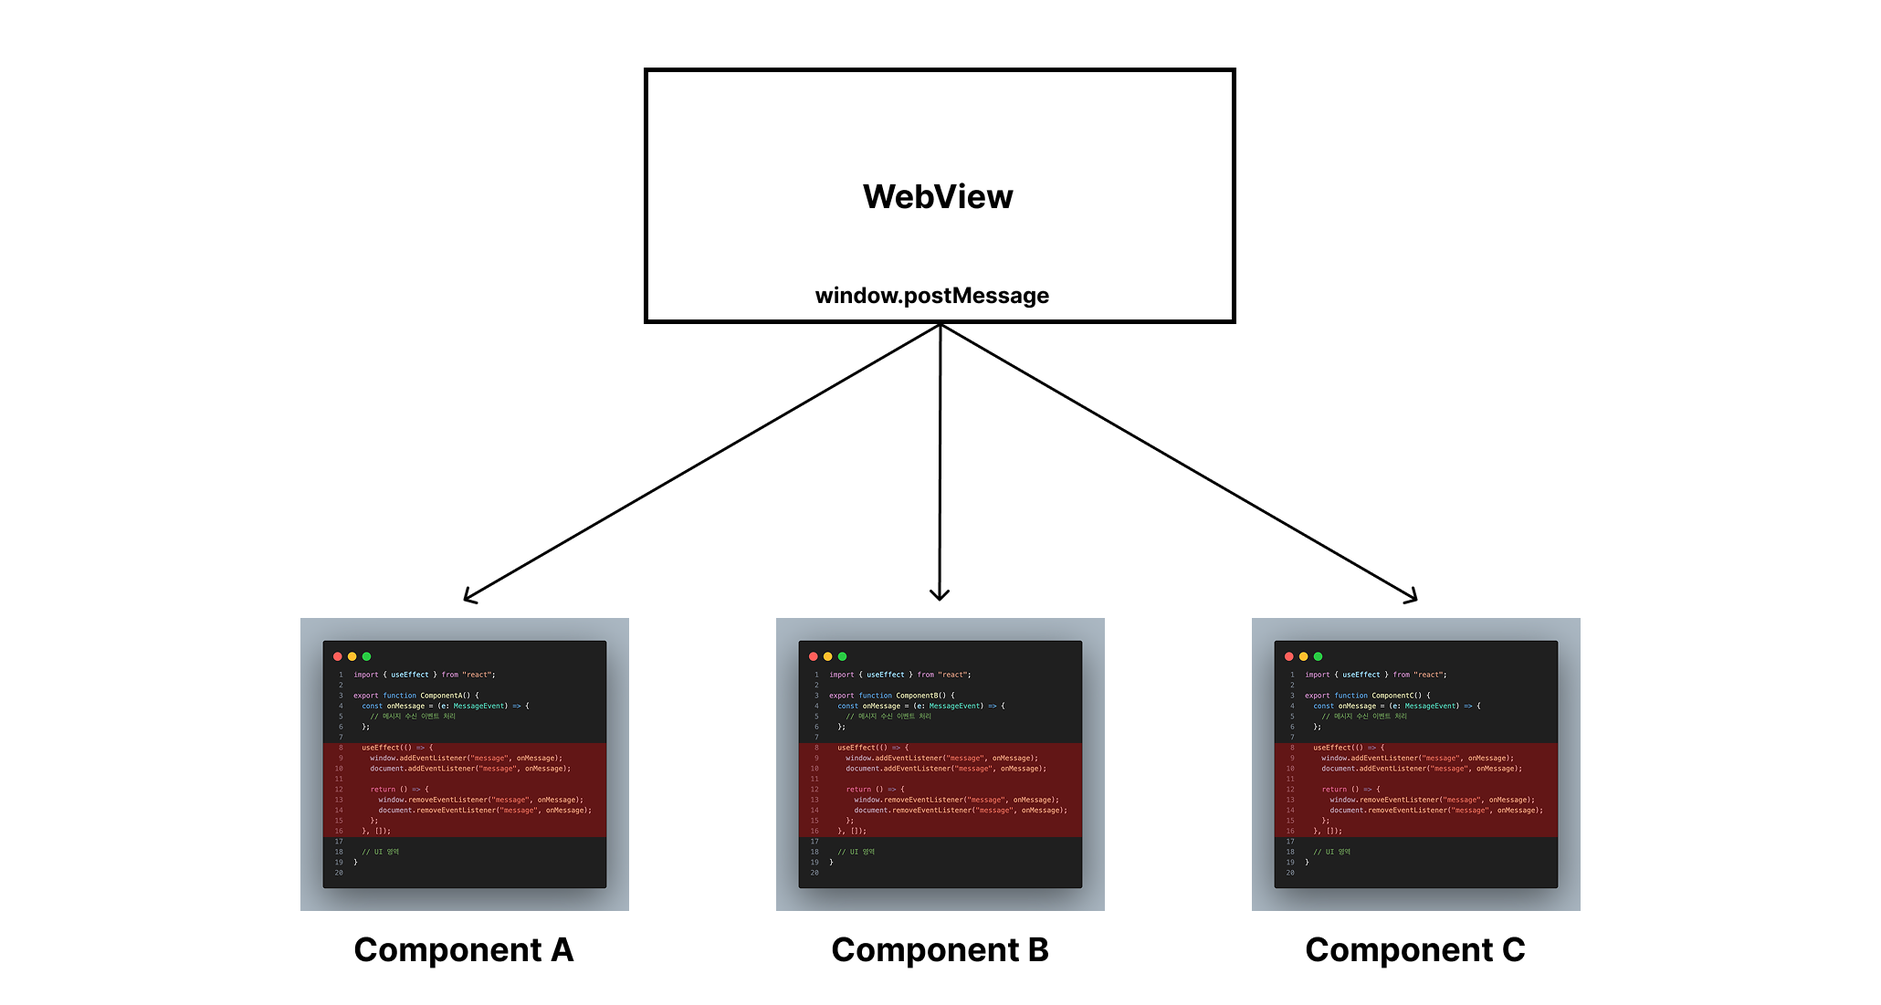
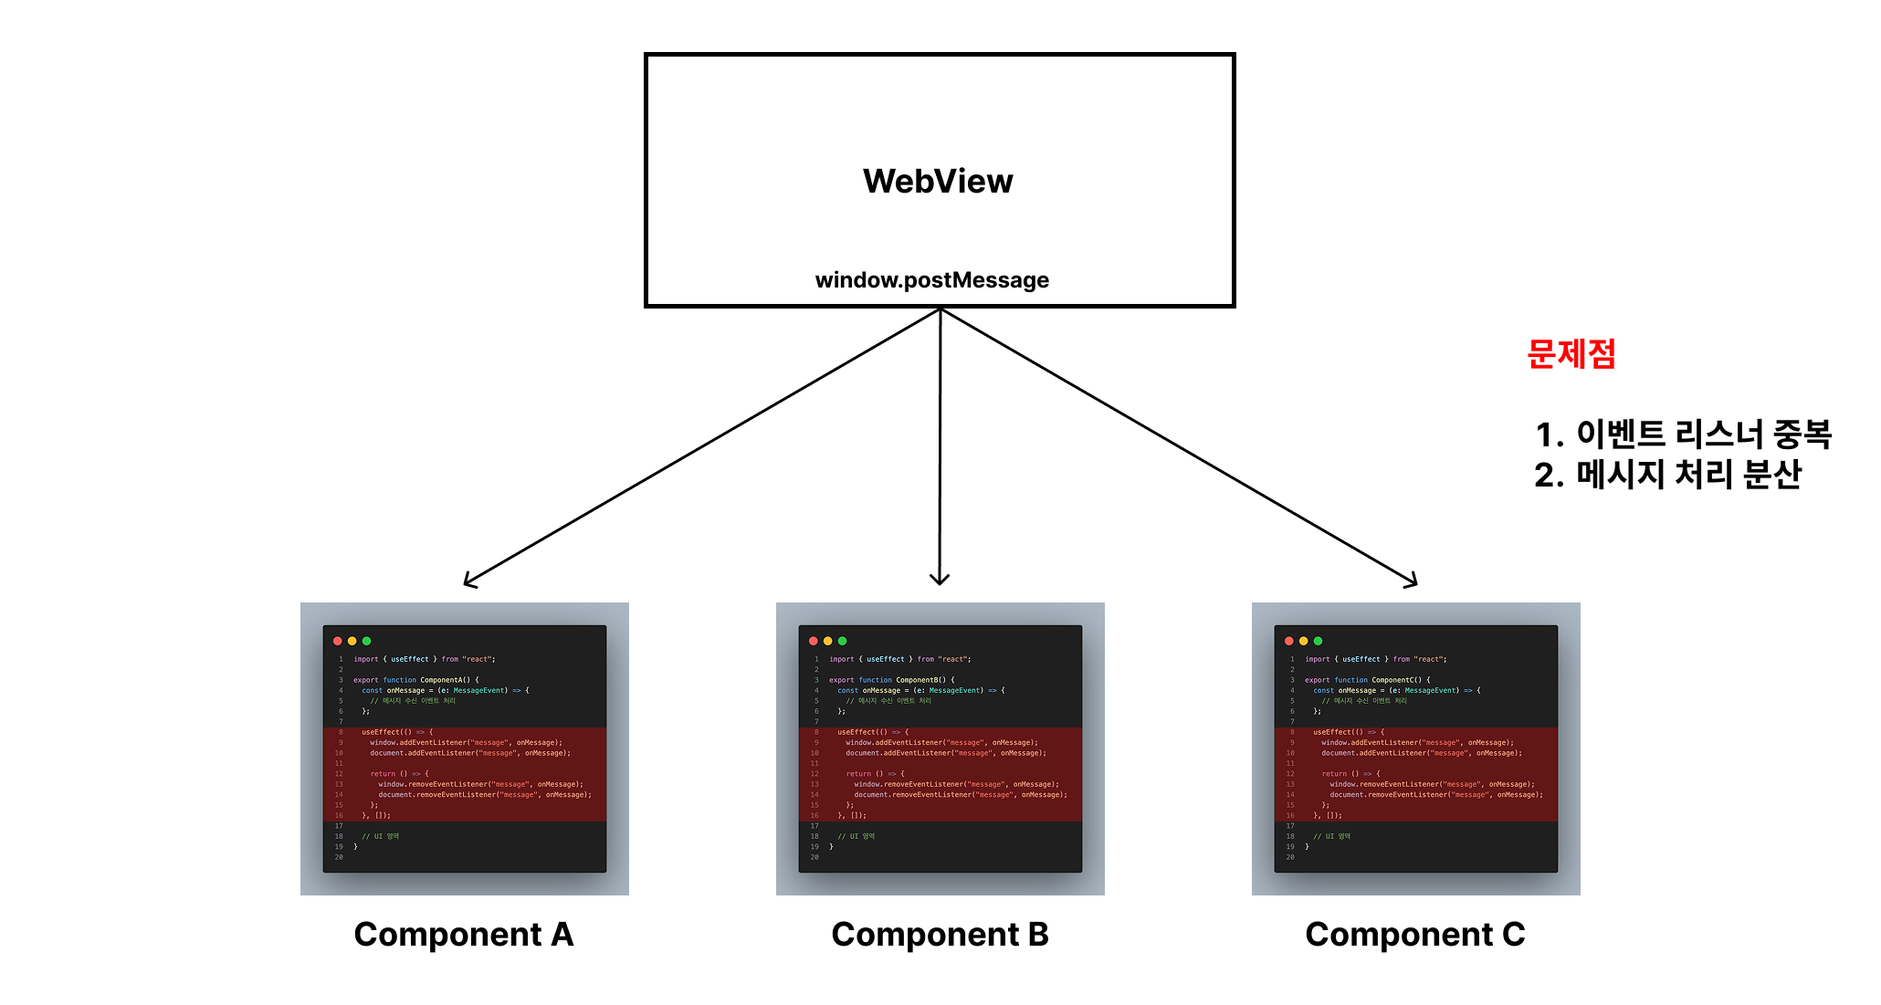
내용 수정

diff --git a/constants/app.ts b/constants/app.ts
@@ -6,10 +6,10 @@ const appDetail = [
       { src: '/app/token-refresh-after.png', caption: '[After 토큰 재발급 흐름]' },
     ],
     problem:
-      'ATK(Access Token) 만료 후 여러 API 요청이 동시에 401 오류를 받으며 로그아웃 문제가 발생함',
+      'ATK(Access Token) 만료 후 여러 API 요청이 동시에 401 오류를 받으며 로그아웃 문제가 발생',
     cause: [
-      '오류를 받은 요청들이 동시에 RTK(Refresh Token)으로 토큰 재발급을 시도하지만, 시스템은 RTR(Rotate Refresh Token) 기법을 적용하고 있어 토큰 재발급 시 RTK도 함께 갱신되며 이전 RTK는 즉시 만료됨',
-      '따라서 첫 번째 요청만 재발급에 성공하고, 이후 요청들은 만료된 RTK를 사용해 로그아웃 처리로 이어짐',
+      '오류를 받은 요청들이 동시에 RTK(Refresh Token)으로 토큰 재발급을 시도하지만, 시스템은 <b>RTR(Rotate Refresh Token)</b> 기법을 적용하고 있어 <b>토큰 재발급 시 RTK도 함께 갱신</b>되며 이전 RTK는 즉시 만료',
+      '따라서 첫 번째 요청만 재발급에 성공하고, 이후 요청들은 만료된 RTK를 사용해 로그아웃 처리',
     ],
     alternatives: [
       { text: '재발급 중복 방지 + 요청 대기 큐 도입', selected: true },
@@ -18,7 +18,7 @@ const appDetail = [
       { text: '백그라운드에서 토큰 만료 감지 및 자동 갱신 처리', selected: false },
     ],
     solution: [
-      '동시에 401 오류가 발생할 수 있는 상황에 대비해, 토큰 재발급 중에는 이후 요청을 대기열에 저장하고, 재발급이 완료된 후 새 토큰으로 인증 정보를 갱신해 순차적으로 요청을 처리하는 방식으로 문제를 해결하였다.',
+      '동시에 401 오류가 발생할 수 있는 상황에 대비해, 토큰 재발급 중에는 <b>이후 요청을 대기열에 저장</b>하고, 재발급이 완료된 후 <b>새 토큰으로 인증 정보를 갱신</b>해 순차적으로 요청을 처리하는 방식으로 문제를 해결하였다.',
     ],
     insights: [
       '요청 대기 큐를 통해 안정적인 사용자 경험을 제공할 수 있었고, 불필요한 서버 부하를 줄일 수 있었다.',
@@ -39,26 +39,26 @@ const appDetail = [
       },
     ],
     problem:
-      '앱 실행 후 스플래시 화면에서 인증 관련 API 호출 중 네트워크 에러가 발생하면, 실제 인증 실패가 아님에도 불구하고 사용자가 자동 로그아웃되는 현상이 발생함',
+      '스플래시 화면에서 인증 관련 API에 네트워크 에러 발생 시, 클라이언트 에러가 아님에도 불구하고 사용자가 자동 로그아웃되는 현상 발생',
     cause: [
-      '클라이언트에서 인증 오류(예: 401, 403)와 일시적인 네트워크 에러(예: 500, 타임아웃 등)에 대한 에러 핸들링이 명확히 구분되지 않아, 모든 오류 상황에서 토큰을 제거하고 로그인 페이지로 이동시키는 로직이 실행됨',
+      '클라이언트 인증 오류와 일시적인 네트워크 장애에 대한 <b>예외 처리가 분리되어 있지 않아</b>, 모든 에러 발생 시 일괄적으로 인증 토큰을 삭제하고 사용자를 로그아웃 처리',
     ],
     alternatives: [
-      { text: '점진적 Retry → 이후 네트워크 상태 재확인 흐름 적용', selected: true },
+      { text: '점진적 Retry 이후 네트워크 상태 재확인 흐름 적용', selected: true },
       { text: 'API 요청 전 네트워크 상태 사전 확인', selected: false },
-      { text: 'Queue를 활용한 요청 재시도(Retry) 구조 도입', selected: false },
+      {
+        text: 'Queue에 요청 저장 후, 네트워크 복구 후 자동으로 활용한 요청 재시도',
+        selected: false,
+      },
     ],
     solution: [
-      '네트워크 장애나 서버 오류(5xx) 발생 시, 인증 토큰을 제거하지 않도록 에러 핸들링 로직 개선',
-      '네트워크 연결이 불안정한 경우, 재시도 없이 즉시 네트워크 장애 안내 페이지로 전환하여 인증 정보 유지 및 불필요한 요청 감소',
-      '일시적인 서버 오류(예: 블루/그린 배포 중 발생하는 5xx 오류)를 고려해, Exponential Backoff Retry 전략(1초 → 2초 → 4초, 최대 3회)을 적용하여 사용자 요청의 안정성을 확보함',
+      '네트워크 장애(5xx)의 경우 재시도 없이 즉시 네트워크 장애 안내 페이지로 전환하였다.',
+      '서버 오류의 경우에는 <b>블루/그린 배포</b>와 같은 특수 상황을 고려해, <b>Exponential Backoff Retry 전략(1초 → 2초 → 4초, 최대 3회)</b>을 적용하였다.',
     ],
     insights: [
       '프로세스 개선 및 정교한 에러 핸들링을 통해 불필요한 로그아웃 문제를 방지하고, 사용자 세션 유지의 안정성을 높일 수 있었다.',
-      '모바일 환경처럼 네트워크가 불안정한 상황에서 앱이 사용자를 강제로 로그아웃시키는 경험은 신뢰도에 큰 영향을 줄 수 있기 때문에, 토큰 제거 조건을 정교하게 설계한 점이 주요한 개선 포인트였다.',
-      'Exponential Backoff Retry 전략을 도입함으로써, 회복 가능성을 고려한 요청 흐름을 구성하고 불필요한 반복 요청을 줄여 서버 부하 감소에도 기여했다.',
-      'RTK 만료로 로그아웃된 사용자에게는 이전 로그인 수단을 바로 안내하는 UI를 추가하여 재로그인 과정의 이탈률도 줄임',
-      'Jest + React Native Testing Library를 활용해 API 요청, 네트워크 예외 상황 등을 모킹하여 다양한 시나리오에 대해 의도한 대로 동작하는지 검증하였지만, MSW(Mock Service Worker) 등 더 실제에 가까운 HTTP 모킹 도구를 사용했다면 정교한 통합 테스트 환경 구축도 가능했을 것이다.',
+      'Exponential Backoff Retry 전략을 도입함으로써, 회복 가능성을 고려한 요청 흐름을 구성하고 불필요한 반복 요청을 줄여 서버 부하 감소에도 기여하였다.',
+      'Jest + React Native Testing Library를 활용해 API 요청을 모킹하고 예외 시나리오에 대해 테스트를 검증하였지만, <b>MSW(Mock Service Worker)를 활용하여 더 실제에 가까운 HTTP 모킹 도구를 사용했다면 정교한 통합 테스트 환경 구축도 가능</b>했을 것이다.',
     ],
     references: [
       {
@@ -79,24 +79,28 @@ const appDetail = [
         caption: '[로그인 상태별 딥링크 흐름]',
       },
       {
+        src: '/app/deeplink-result.png',
+        caption: '[딥링크 개선 적용 후 신규 설치 사용자 수 변화]',
+      },
+      {
         src: '/app/deeplink-demo.gif',
-        caption: '[딥링크 클릭 시 로그인되지 않은 사용자의 화면 이동]',
+        caption: '[로그인 후 딥링크 목적지로 이동]',
       },
     ],
-    problem: '딥링크 클릭 시 로그인 상태에 따라 목적지로 이동하지 못하는 문제가 발생함',
+    problem: '딥링크 클릭 시 로그인 상태에 따라 목적지로 이동하지 못하는 문제가 발생',
     cause: [
-      '로그인 여부를 고려한 분기 로직 없이 딥링크를 처리해, 로그인 전 상태에서는 의도한 목적지로의 이동이 보장되지 않았음',
+      '딥링크 접근 시 <b>로그인 여부를 판별하는 로직이 없어</b>, 비로그인 상태에서는 인증 후에도 원래 목적지로 이동이 보장되지 않음',
     ],
     alternatives: [
       { text: 'Context를 활용한 딥링크 상태 보존', selected: true },
       { text: '로그인 여부를 검증하지 않고 목적지로 리디렉션', selected: false },
     ],
     solution: [
-      '로그인을 필수로 요구하는 서비스 특성상, 비로그인 상태에서 딥링크로 접근 시 목적지로 바로 이동할 수 없는 문제가 존재하여, 딥링크로 접속 시 경로를 전역 상태(Context)에 저장하고 로그인 완료 후 해당 경로로 리디렉션하는 방식을 도입함',
+      '딥링크로 접속 시 경로를 <b>Context에 저장</b>하고, <b>로그인 후 해당 경로로 리디렉션</b>하는 방식을 도입하였다.',
     ],
     insights: [
       '전역 상태를 활용한 경로 저장 및 리디렉션 방식은 로그인 후에도 사용자가 딥링크 목적지로 자연스럽게 이동할 수 있어 진입 흐름의 일관성이 확보되었다.',
-      '마케팅 링크, 공유 링크 등 다양한 외부 유입 경로에서 사용자의 기대와 실제 앱 동작 간의 간극을 줄이는 데 기여했으며, 결과적으로 서비스 접근성과 UX 향상에 긍정적인 영향을 주었다.',
+      '마케팅 링크, 공유 링크 등 다양한 외부 유입 경로에서 사용자의 기대와 실제 앱 동작 간의 간극을 줄이는 데 기여했으며, 결과적으로 <b>서비스 접근성과 UX 향상에 긍정적인 영향</b>을 주었다.',
       '다만, 로그인하지 않은 사용자는 딥링크 내용을 즉시 확인하기 어려운 한계가 있으며, 이를 보완하기 위해 딥링크 클릭 시 앱이 설치되어 있지 않다면 웹 링크로 유도하여 내용을 즉시 확인할 수 있도록 하는 방식을 적용하는 것이 효과적일 것이다.',
     ],
     references: [],
@@ -109,14 +113,11 @@ const appDetail = [
         caption: '[인앱 업데이트 프로세스]',
       },
     ],
-    problem:
-      '앱 스토어 심사로 인해 배포 시점이 최대 1~2일 지연되어, 긴급 수정이 즉시 이루어지지 않음',
-    cause: [
-      '업데이트를 앱 심사 완료 이후에만 적용할 수 있는 구조로 운영되어, 유연한 대응이 불가능했음',
-    ],
+    problem: '<b>앱 스토어 심사로 인해 배포 시점이 최대 1~2일 지연</b>되어, 긴급 수정의 어려움',
+    cause: ['업데이트를 앱 심사 완료 이후에만 적용할 수 있는 구조로 운영되어, 유연한 대응 불가능'],
     alternatives: [
       {
-        text: '앱 마켓 심사를 거치지 않고도 업데이트할 수 있는 인앱 업데이트 도입',
+        text: '앱 내부에서 업데이트할 수 있는 인앱 업데이트 도입',
         selected: true,
       },
       {
@@ -125,12 +126,12 @@ const appDetail = [
       },
     ],
     solution: [
-      '인앱 업데이트를 도입하여 앱 스토어 설치를 거치지 않고 앱 내부에서 변경된 코드와 리소스를 평균 3분 이내로 빠르게 배포 가능하도록 개선',
+      '인앱 업데이트를 도입하여 앱 스토어 설치를 거치지 않고 <b>앱 내부에서 변경된 코드와 리소스를 평균 3분 이내로 빠르게 배포 가능</b>하도록 개선하였다.',
     ],
     insights: [
-      '인앱 업데이트 도입을 통해 앱 심사를 거치지 않고도 빠르게 변경 사항을 반영할 수 있어, 긴급 대응 및 운영 유연성이 크게 향상되었다.',
-      '그러나 실제 운영 과정에서는 네이티브 변경이 포함된 업데이트의 경우, 여전히 앱스토어 배포가 필요하기 때문에 인앱 업데이트 기능이 무용지물이 되는 경우도 존재한다. 특히, 네이티브 변경이 단순한 버전 증가인지, 기능적으로 영향이 있는 변경인지를 정확히 구분하기 어렵다는 점도 운영 상의 리스크로 작용했다.',
-      '또한 인앱 업데이트에 대한 점진적 배포(Gradual Rollout)가 제한적이기 때문에, 장애 발생 시 조기 차단이나 롤백이 어렵다. 이에 따라 사전 대응을 위한 테스트 코드 강화 및 배포 전 시나리오 점검 절차 보완이 필요하다고 판단된다.',
+      '인앱 업데이트 도입을 통해 앱 심사를 거치지 않고도 빠르게 변경 사항을 반영할 수 있어, 긴급 대응 및 운영 유연성이 크게 향상되었다. 실제로 <b>앱에서 UI가 깨지는 문제와 프로필 재설정 시 이미지가 삭제되는 버그를 빠르게 수정</b>할 수 있었다.',
+      '그러나 <b>네이티브 모듈 수정이 포함된 업데이트의 경우, 여전히 앱스토어 배포가 필요하기 때문에 인앱 업데이트 기능이 무용지물</b>이 되는 경우도 존재한다. 특히, 네이티브 변경이 단순한 버전 증가인지, 기능적으로 영향이 있는 변경인지를 정확히 구분하기 어렵다는 점도 운영 상의 리스크로 작용했다.',
+      '또한 <b>인앱 업데이트에 대한 점진적 배포(Gradual Rollout)가 제한적</b>이기 때문에, 장애 발생 시 조기 차단이나 롤백이 어렵다. 이에 따라 사전 대응을 위한 테스트 코드 강화 및 배포 전 시나리오 점검 절차 보완이 필요하다고 판단된다.',
     ],
     references: [
       {
@@ -156,19 +157,18 @@ const appDetail = [
       },
     ],
     problem:
-      'Android와 iOS 앱을 각각 수동으로 빌드하고 업로드해야 해 배포 과정에 반복적인 수작업이 발생하고, 작업 효율성이 저하됨',
+      'Android와 iOS 앱을 각각 <b>수동으로 빌드하고 업로드하여 반복적인 수작업이 발생 및 작업 효율성 저하</b>',
     cause: [
-      '자동화된 CI/CD 파이프라인이 구축되어 있지 않고, 배포가 브랜치 전략이나 워크플로우와 연계되지 않아 매번 수동으로 처리해야 하는 구조로 운영되었음',
+      '자동화된 CI/CD 파이프라인이 구축되어 있지 않고, 배포가 브랜치 전략이나 워크플로우와 연계되지 않아 매번 수동으로 처리해야 하는 구조로 운영',
     ],
     alternatives: [{ text: 'Github Actions를 활용한 자동화 배포 파이프라인 구축', selected: true }],
     solution: [
-      'Github Actions를 활용하여 CI/CD 자동화 배포 파이프라인을 구축하고, 브랜치 전략에 따라 서로 다른 배포 경로를 적용함.',
-      'production 배포 PR이 머지되는 경우에는 앱 마켓(Play Store / App Store)에 자동 업로드되도록 설정하고, staging 배포에 대해서는 Firebase App Distribution을 통해 팀원들에게 배포가 자동으로 이루어지도록 구성하여, 반복적인 수작업 없이 안정적인 배포 흐름과 작업 효율성을 확보함.',
+      'Github Actions를 활용하여 <b>CI/CD 자동화 배포 파이프라인을 구축하고, 브랜치 전략에 따라 서로 다른 배포 경로를 적용</b>하였다.',
+      'production 배포 PR이 머지되는 경우에는 앱 마켓(Play Store / App Store)에 자동 업로드되도록 설정하고, staging 배포에 대해서는 Firebase App Distribution을 통해 팀원들에게 배포가 자동으로 이루어지도록 구성하였다.',
     ],
     insights: [
       'CI/CD 자동화 도입으로 수동 배포 과정에서 발생하던 반복 작업과 인적 오류를 크게 줄일 수 있었고, 배포 속도와 안정성이 향상되었다.',
       '브랜치 전략과 연동된 자동화 배포 흐름을 구성함으로써, 개발 단계와 운영 단계의 배포가 명확히 분리되어 협업 효율도 개선되었다.',
-      '또한 Slack 알림 연동을 통해 배포 결과를 실시간으로 공유하여 커뮤니케이션 속도와 투명성을 높일 수 있었다.',
     ],
     references: [],
   },

diff --git a/constants/webview.ts b/constants/webview.ts
@@ -12,10 +12,9 @@ const webviewDetail = [
       },
     ],
     problem:
-      '웹뷰 메시지를 처리하는 로직이 여러 컴포넌트에 중복되고 분산되어 있어, 메시지 흐름을 예측하기 어렵고 유지보수 및 확장 시 에러 발생 가능성이 높음',
+      '웹뷰 메시지를 처리하는 로직이 중복되고 분산되어 있어, 메시지 흐름을 예측하기 어렵고 유지보수 및 확장 시 에러 발생 가능성이 높음',
     cause: [
-      '각 컴포넌트가 자체적으로 메시지 리스너를 등록하고 처리하는 구조로 되어 있어, 동일한 이벤트 리스너 로직이 여러 곳에 중복되고, DRY 원칙을 위반하고 있음.',
-      '메시지를 수신할 때 관심사에 따라 분리된 구조가 아닌 브로드캐스트 방식으로 전달되기 때문에, 관심 없는 메시지까지 수신하게 되고, 각 메시지 핸들러가 독립적으로 동작하면서 일관된 메시지 처리 흐름을 만들기 어려움',
+      '메시지를 수신할 때 관심사에 따라 분리된 구조가 아닌 <b>브로드캐스트 방식으로 전달</b>되어 <b>관심 없는 메시지까지 수신</b>',
     ],
     alternatives: [
       {
@@ -24,12 +23,12 @@ const webviewDetail = [
       },
     ],
     solution: [
-      'WebViewMessagePublisher 클래스를 도입하여 메시지를 중앙에서 수신하고, 옵저버들은 자신이 관심 있는 메시지 타입만 구독하도록 리팩터링하여 메시지 수신/처리의 관심사 분리와 일관성 확보를 달성함',
-      '메시지 응답 타입을 제네릭(Generic)으로 정의하여, 옵저버 등록 시 타입을 명시적으로 전달하도록 구성함으로써 컴파일 타임에서의 타입 체크와 안전한 메시지 파싱이 가능해졌고, 메시지 구조 변경 시 런타임 에러 없이 즉각적인 대응이 가능하도록 하여 안정성을 높임',
+      '<b>pub/sub 패턴을 도입</b>하여 메시지를 중앙에서 수신하고, <b>관심사에 대해서만 구독</b>하도록 리팩터링하여 메시지 수신/처리의 관심사를 분리하였다.',
+      '메시지 응답 타입을 제네릭(Generic)으로 정의하여, 옵저버 등록 시 타입을 명시적으로 전달하도록 구성하였다.',
     ],
     insights: [
-      '메시지 처리 로직을 중앙에서 관리하게 되면서, 유형 추가나 메시지 스펙 변경에 대한 대응 비용도 감소하였고, 개발자가 특정 메시지가 어디서 처리되는지 파악하기 쉬워져 디버깅 효율도 향상되었다.',
-      'WebViewMessagePublisher를 싱글톤 패턴으로 구현함으로써, 전역에서 동일한 인스턴스를 공유하며 메시지 수신 및 구독 관리의 일관성을 확보할 수 있었고, 중복 리스너 등록이나 메모리 누수에 대한 위험도 줄일 수 있었다.',
+      'pub/sub 패턴을 통해 <b>타입 추가나 메시지 스펙 변경에 대한 비용이 감소</b>하였고, 특정 메시지가 어디서 처리되는지 파악하기 쉬워져 디버깅 효율도 향상되었다.',
+      '옵저버를 <b>싱글톤 패턴으로 구현</b>하여 <b>중복 리스너 등록이나 메모리 누수에 대한 위험도 감소</b>할 수 있었다.',
     ],
     references: [],
   },

diff --git a/components/ProjectDetailCard.tsx b/components/ProjectDetailCard.tsx
@@ -29,15 +29,20 @@ export default function ProjectDetailCard({
         <div className="flex flex-col gap-6">
           <ProjectDetailSectionBlock title="문제">
             <ul className="dot-list">
-              <li className="text-gray-700 dark:text-gray-300">{problem}</li>
+              <li
+                className="text-gray-700 dark:text-gray-300"
+                dangerouslySetInnerHTML={{ __html: problem }}
+              />
             </ul>
           </ProjectDetailSectionBlock>
           <ProjectDetailSectionBlock title="원인">
             <ul className="dot-list">
               {cause.map((c, i) => (
-                <li key={i} className="text-gray-700 dark:text-gray-300">
-                  {c}
-                </li>
+                <li
+                  key={i}
+                  className="text-gray-700 dark:text-gray-300"
+                  dangerouslySetInnerHTML={{ __html: c }}
+                />
               ))}
             </ul>
           </ProjectDetailSectionBlock>
@@ -59,18 +64,22 @@ export default function ProjectDetailCard({
           <ProjectDetailSectionBlock title="해결">
             <ul className="dot-list">
               {solution.map((sol, i) => (
-                <li key={i} className="text-gray-700 dark:text-gray-300">
-                  {sol}
-                </li>
+                <li
+                  key={i}
+                  className="text-gray-700 dark:text-gray-300"
+                  dangerouslySetInnerHTML={{ __html: sol }}
+                />
               ))}
             </ul>
           </ProjectDetailSectionBlock>
           <ProjectDetailSectionBlock title="결과">
             <ul className="dot-list">
               {insights.map((insight, i) => (
-                <li key={i} className="text-gray-700 dark:text-gray-300">
-                  {insight}
-                </li>
+                <li
+                  key={i}
+                  className="text-gray-700 dark:text-gray-300"
+                  dangerouslySetInnerHTML={{ __html: insight }}
+                />
               ))}
             </ul>
           </ProjectDetailSectionBlock>
